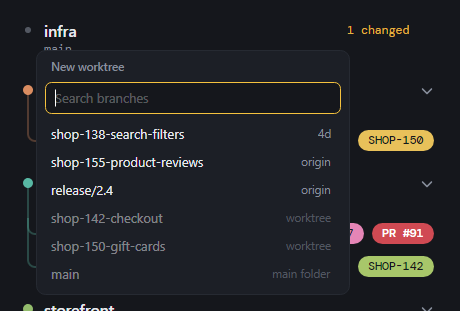
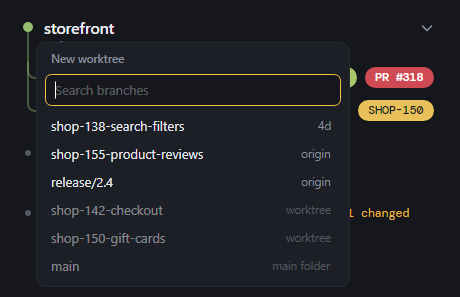
List repos with worktrees first
The work in flight now sits at the top of the list, and repos with no
worktrees below it, each group still in name order. `ow list` keeps plain name
order for scripts. README screenshots retaken to match.

diff --git a/tests/Overworked.App.Tests/RepoOrderTests.cs b/tests/Overworked.App.Tests/RepoOrderTests.cs
@@ -1,0 +1,25 @@
+using Overworked.App.ViewModels;
+using Overworked.Core;
+
+namespace Overworked.App.Tests;
+
+public sealed class RepoOrderTests
+{
+    [Fact]
+    public void Repos_with_worktrees_come_first_each_group_in_name_order()
+    {
+        // As a scan returns them: by name.
+        var repos = new[] { Repo("design-system", 0), Repo("infra", 0), Repo("mobile-app", 1), Repo("payments-api", 2), Repo("web", 0) };
+
+        var shown = MainViewModel.InFlightFirst(repos).Select(r => r.Name);
+
+        Assert.Equal(new[] { "mobile-app", "payments-api", "design-system", "infra", "web" }, shown);
+    }
+
+    static Repo Repo(string name, int worktrees) =>
+        new(name, $"/r/{name}",
+        [
+            new Worktree($"/r/{name}", "main", IsMain: true, IsMissing: false),
+            .. Enumerable.Range(1, worktrees).Select(i => new Worktree($"/r/.worktrees/{name}/w{i}", $"w{i}", IsMain: false, IsMissing: false)),
+        ]);
+}

diff --git a/src/Overworked.App/ViewModels/MainViewModel.cs b/src/Overworked.App/ViewModels/MainViewModel.cs
@@ -165,9 +165,12 @@ public sealed class MainViewModel : ObservableObject, IDisposable
 
         _mustRedraw = false;
         var colours = RowColours.For(repos);
-        Rows = repos.Select(r => new RepoRow(r, isExpanded: !_collapsed.Contains(r.Path), colours)).ToList();
+        Rows = InFlightFirst(repos).Select(r => new RepoRow(r, isExpanded: !_collapsed.Contains(r.Path), colours)).ToList();
         var worktrees = repos.Sum(r => r.Linked.Count(w => !w.IsMissing));
         SummaryCount = worktrees == 0 ? "Nothing" : Plural.Of(worktrees, "worktree");
         SummaryRest = $" in flight across {Plural.Of(repos.Count, "repo")}";
     }
+
+    /// <summary>Repos with worktrees first, so the work in flight sits at the top; each group keeps its order.</summary>
+    internal static IEnumerable<Repo> InFlightFirst(IEnumerable<Repo> repos) => repos.OrderBy(r => r.Linked.Any() ? 0 : 1);
 }

diff --git a/README.md b/README.md
@@ -59,7 +59,8 @@ dotnet tool install -g Overworked.Cli --add-source ./nupkg   # adds `ow` to your
 ### First run
 
 Click **Choose folder** and pick the folder your repos live in (say `C:\code` or `~/code`). Each repo in it appears
-with its worktrees underneath. New worktrees go in `.worktrees/<repo>/<branch>` inside that folder.
+with its worktrees underneath, and the repos you have worktrees in sit at the top. New worktrees go in
+`.worktrees/<repo>/<branch>` inside that folder.
 
 ## Using it
 
